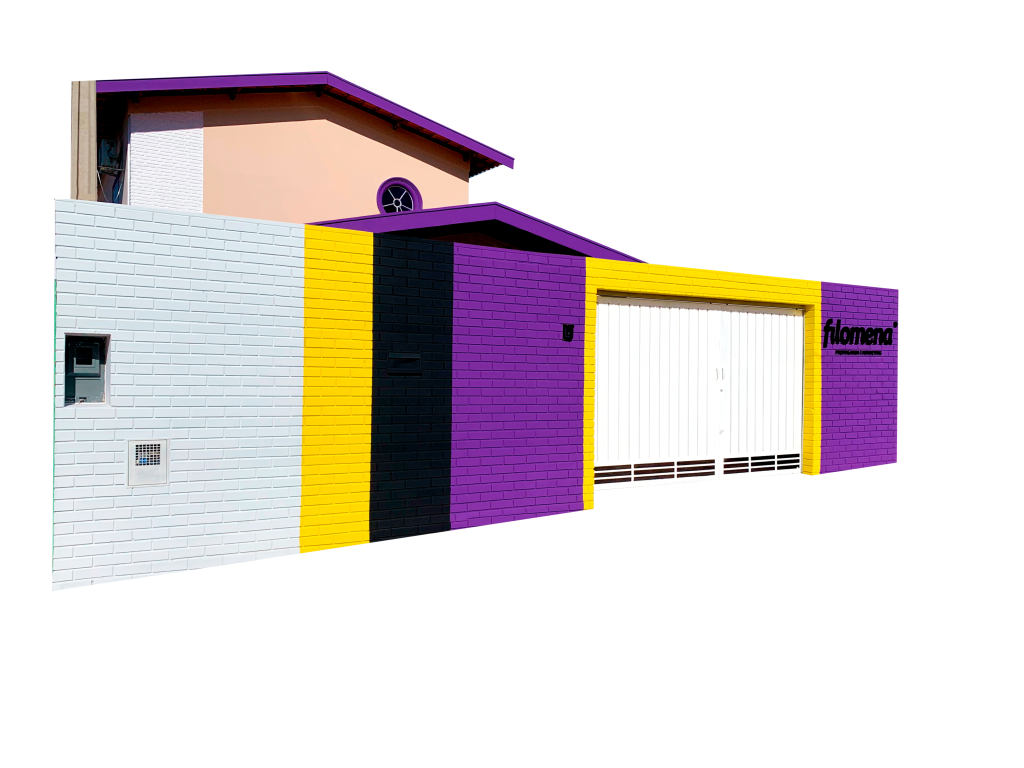
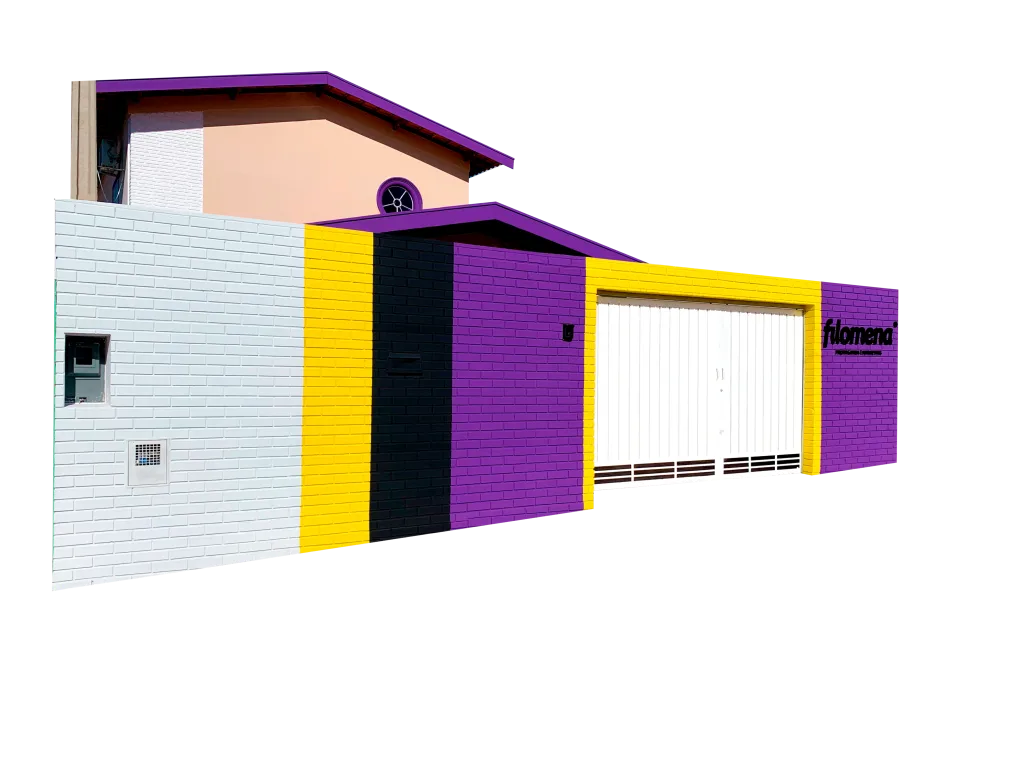
perf: optimize portfolio images to webp and fix mobile showcase overlapping sizes

diff --git a/public/styles.css b/public/styles.css
@@ -2710,7 +2710,7 @@ h1, h2, h3, h4, h5, h6 {
 /* Background "Por que somos unicos" */
 .bg-sobre {
     position: relative;
-    background-image: url("assets/images/sobre-bg.jpg");
+    background-image: url("assets/images/sobre-bg.webp");
     background-size: cover;
     background-position: center top;
     background-attachment: scroll;
@@ -2795,8 +2795,11 @@ h1, h2, h3, h4, h5, h6 {
 
 @media (max-width: 968px) {
     .hero__showcase-container {
-        height: 380px;
+        height: 420px;
         margin-top: var(--space-2xl);
+        max-width: 480px;
+        margin-left: auto;
+        margin-right: auto;
     }
 }
 
@@ -2839,6 +2842,7 @@ h1, h2, h3, h4, h5, h6 {
     transition: transform 0.4s cubic-bezier(0.25, 0.8, 0.25, 1), box-shadow 0.4s ease, border-color 0.3s ease;
     cursor: pointer;
     will-change: transform;
+    aspect-ratio: 1.5;
 }
 
 .showcase-card__inner {
@@ -2851,7 +2855,7 @@ h1, h2, h3, h4, h5, h6 {
 
 .showcase-card img {
     width: 100%;
-    height: auto;
+    height: 100%;
     display: block;
     object-fit: cover;
     transition: transform 0.6s ease;
@@ -2957,9 +2961,45 @@ h1, h2, h3, h4, h5, h6 {
     50% { transform: translateY(-6px) rotate(0.6deg); }
 }
 
-@media (max-width: 576px) {
-    .showcase-card--1 { width: 70%; top: 5%; left: 0; }
-    .showcase-card--2 { width: 75%; top: 25%; left: 12.5%; }
-    .showcase-card--3 { width: 65%; bottom: 5%; right: 0; }
-    .hero__showcase-tag { left: 0; }
+@media (max-width: 968px) {
+    .showcase-card--1 {
+        width: 58%;
+        top: 2%;
+        left: 2%;
+    }
+    
+    .showcase-card--2 {
+        width: 58%;
+        top: 28%;
+        left: 20%;
+    }
+    
+    .showcase-card--3 {
+        width: 58%;
+        bottom: 2%;
+        right: 2%;
+        left: auto;
+    }
+    
+    .hero__showcase-tag {
+        left: 2%;
+        top: -20px;
+    }
+    
+    .showcase-card__badge {
+        bottom: 8px;
+        left: 8px;
+        padding: 4px 8px;
+        gap: 4px;
+        border-radius: 6px;
+    }
+    
+    .showcase-card__badge .client {
+        font-size: 0.65rem;
+    }
+    
+    .showcase-card__badge .category {
+        font-size: 0.55rem;
+        padding-left: 6px;
+    }
 }

diff --git a/src/content/portfolio/tudo-natal.md b/src/content/portfolio/tudo-natal.md
@@ -2,14 +2,14 @@
 title: "Tudo Natal | Papelaria & Uniformização Corporativa"
 client: "Tudo Natal"
 category: "Identidade Visual & Papelaria"
-thumbnail: "/assets/images/portfolio/tudonatal-folder.png"
+thumbnail: "/assets/images/portfolio/tudonatal-folder.webp"
 featured: true
 description: "Projeto de papelaria institucional (cartão de visita, convite e folder) e padronização de uniformes sociais."
 images:
-  - "/assets/images/portfolio/tudonatal-folder.png"
-  - "/assets/images/portfolio/tudonatal-cartao.png"
-  - "/assets/images/portfolio/tudonatal-convite.png"
-  - "/assets/images/portfolio/tudonatal-uniforme.jpg"
+  - "/assets/images/portfolio/tudonatal-folder.webp"
+  - "/assets/images/portfolio/tudonatal-cartao.webp"
+  - "/assets/images/portfolio/tudonatal-convite.webp"
+  - "/assets/images/portfolio/tudonatal-uniforme.webp"
 ---
 
 Projeto de papelaria institucional (cartão de visita, convite e folder) e padronização de uniformes sociais.

diff --git a/src/content/portfolio/siltomac.md b/src/content/portfolio/siltomac.md
@@ -2,13 +2,13 @@
 title: "Siltomac | Boutique de Carnes & Sinalização"
 client: "Siltomac Boutique de Carnes"
 category: "Sinalização & Design de PDV"
-thumbnail: "/assets/images/portfolio/siltomac-geladeira.png"
+thumbnail: "/assets/images/portfolio/siltomac-geladeira.webp"
 featured: true
 description: "Desenvolvimento de identidade visual aplicada a vestuário corporativo e envelopamento de ponto de venda (geladeira e balcão)."
 images:
-  - "/assets/images/portfolio/siltomac-roupa.png"
-  - "/assets/images/portfolio/siltomac-geladeira.png"
-  - "/assets/images/portfolio/siltomac-balcao.png"
+  - "/assets/images/portfolio/siltomac-roupa.webp"
+  - "/assets/images/portfolio/siltomac-geladeira.webp"
+  - "/assets/images/portfolio/siltomac-balcao.webp"
 ---
 
 Desenvolvimento de identidade visual aplicada a vestuário corporativo e envelopamento de ponto de venda (geladeira e balcão).

diff --git a/src/content/portfolio/grampola.md b/src/content/portfolio/grampola.md
@@ -2,14 +2,14 @@
 title: "Grampola | Peças Automotivas"
 client: "Grampola Peças Automotivas"
 category: "Social Media & Performance"
-thumbnail: "/assets/images/mockup-grampola.png"
+thumbnail: "/assets/images/mockup-grampola.webp"
 featured: false
 description: "Criação de materiais para eventos (display e voucher) e cobertura fotográfica."
 images:
-  - "/assets/images/mockup-grampola.png"
-  - "/assets/images/portfolio/grampola-voucher.png"
-  - "/assets/images/portfolio/grampola-evento.jpg"
-  - "/assets/images/portfolio/grampola-display.png"
+  - "/assets/images/mockup-grampola.webp"
+  - "/assets/images/portfolio/grampola-voucher.webp"
+  - "/assets/images/portfolio/grampola-evento.webp"
+  - "/assets/images/portfolio/grampola-display.webp"
 video: "/assets/videos/totem-feira-grampola.mp4"
 ---
 

diff --git a/src/content/portfolio/neonova.md b/src/content/portfolio/neonova.md
@@ -2,12 +2,12 @@
 title: "Neonova | Identidade & Uniformização"
 client: "Neonova"
 category: "Identidade Visual & Uniformização"
-thumbnail: "/assets/images/portfolio/neonova-uniforme.jpg"
+thumbnail: "/assets/images/portfolio/neonova-uniforme.webp"
 featured: false
 description: "Desenvolvimento de papelaria institucional (pasta) e diretrizes visuais."
 images:
-  - "/assets/images/portfolio/neonova-uniforme.jpg"
-  - "/assets/images/portfolio/neonova-pasta.png"
+  - "/assets/images/portfolio/neonova-uniforme.webp"
+  - "/assets/images/portfolio/neonova-pasta.webp"
 ---
 
 Desenvolvimento de papelaria institucional (pasta) e diretrizes visuais.

diff --git a/src/content/portfolio/latina-eletro.md b/src/content/portfolio/latina-eletro.md
@@ -2,12 +2,12 @@
 title: "Latina Eletrodomésticos | Sinalização de Showroom"
 client: "Latina Eletrodomésticos"
 category: "Ambientação & Sinalização"
-thumbnail: "/assets/images/portfolio/latina-frente.png"
+thumbnail: "/assets/images/portfolio/latina-frente.webp"
 featured: false
 description: "Projeto de comunicação visual corporativa para ponto de venda."
 images:
-  - "/assets/images/portfolio/latina-frente.png"
-  - "/assets/images/portfolio/latina-adesivo.png"
+  - "/assets/images/portfolio/latina-frente.webp"
+  - "/assets/images/portfolio/latina-adesivo.webp"
 ---
 
 Projeto de comunicação visual corporativa para ponto de venda.

diff --git a/src/content/portfolio/boali.md b/src/content/portfolio/boali.md
@@ -2,12 +2,12 @@
 title: "Boali | Alimentação Saudável & Ambientação"
 client: "Boali Alimentação Saudável"
 category: "Ambientação & PDV"
-thumbnail: "/assets/images/portfolio/boali-outdoor1.png"
+thumbnail: "/assets/images/portfolio/boali-outdoor1.webp"
 featured: true
 description: "Projeto de sinalização para ponto de venda e outdoors regionais."
 images:
-  - "/assets/images/portfolio/boali-outdoor1.png"
-  - "/assets/images/portfolio/boali-outdoor2.png"
+  - "/assets/images/portfolio/boali-outdoor1.webp"
+  - "/assets/images/portfolio/boali-outdoor2.webp"
 ---
 
 Projeto de sinalização para ponto de venda e outdoors regionais.

diff --git a/src/content/portfolio/dubelato.md b/src/content/portfolio/dubelato.md
@@ -2,12 +2,12 @@
 title: "Dubelato Gelateria | Mídia Exterior"
 client: "Dubelato Gelateria"
 category: "Campanhas & Mídia Exterior"
-thumbnail: "/assets/images/outdoor-dubelato.png"
+thumbnail: "/assets/images/outdoor-dubelato.webp"
 featured: false
 description: "Desenvolvimento de material de mídia exterior (outdoors)."
 images:
-  - "/assets/images/outdoor-dubelato.png"
-  - "/assets/images/outdoor-dubelato-full.png"
+  - "/assets/images/outdoor-dubelato.webp"
+  - "/assets/images/outdoor-dubelato-full.webp"
 ---
 
 Desenvolvimento de material de mídia exterior (outdoors).

diff --git a/src/content/portfolio/masotti.md b/src/content/portfolio/masotti.md
@@ -2,12 +2,12 @@
 title: "Móveis Masotti | Identidade Visual"
 client: "Móveis Masotti"
 category: "Identidade Visual"
-thumbnail: "/assets/images/portfolio-masotti.jpg"
+thumbnail: "/assets/images/portfolio-masotti.webp"
 featured: true
 description: "Criação de material institucional e apresentação."
 images:
-  - "/assets/images/portfolio-masotti.jpg"
-  - "/assets/images/mockup-masotti.png"
+  - "/assets/images/portfolio-masotti.webp"
+  - "/assets/images/mockup-masotti.webp"
 ---
 
 Criação de material institucional e apresentação.

diff --git a/src/content/portfolio/lupetec.md b/src/content/portfolio/lupetec.md
@@ -2,11 +2,11 @@
 title: "Lupetec | Identidade Corporativa"
 client: "Lupetec"
 category: "Identidade Visual & Papelaria"
-thumbnail: "/assets/images/portfolio/lupetec-caderno.jpg"
+thumbnail: "/assets/images/portfolio/lupetec-caderno.webp"
 featured: false
 description: "Desenvolvimento de arte para papelaria e brindes corporativos (caderno)."
 images:
-  - "/assets/images/portfolio/lupetec-caderno.jpg"
+  - "/assets/images/portfolio/lupetec-caderno.webp"
 ---
 
 Desenvolvimento de arte para papelaria e brindes corporativos (caderno).

diff --git a/src/content/portfolio/iseg.md b/src/content/portfolio/iseg.md
@@ -2,11 +2,11 @@
 title: "iSeg | Identidade & Sinalização"
 client: "iSeg"
 category: "Identidade Visual & Sinalização"
-thumbnail: "/assets/images/portfolio/iseg-capa.png"
+thumbnail: "/assets/images/portfolio/iseg-capa.webp"
 featured: false
 description: "Criação de material gráfico institucional e mídias sociais."
 images:
-  - "/assets/images/portfolio/iseg-capa.png"
+  - "/assets/images/portfolio/iseg-capa.webp"
 ---
 
 Criação de material gráfico institucional e mídias sociais.

diff --git a/src/content/portfolio/people-leap.md b/src/content/portfolio/people-leap.md
@@ -2,11 +2,11 @@
 title: "People Leap | Branding & Employer Branding"
 client: "People Leap"
 category: "Branding"
-thumbnail: "/assets/images/mockup-peopleleap.png"
+thumbnail: "/assets/images/mockup-peopleleap.webp"
 featured: true
 description: "Criação de identidade visual e apresentação corporativa."
 images:
-  - "/assets/images/mockup-peopleleap.png"
+  - "/assets/images/mockup-peopleleap.webp"
 ---
 
 Criação de identidade visual e apresentação corporativa.
